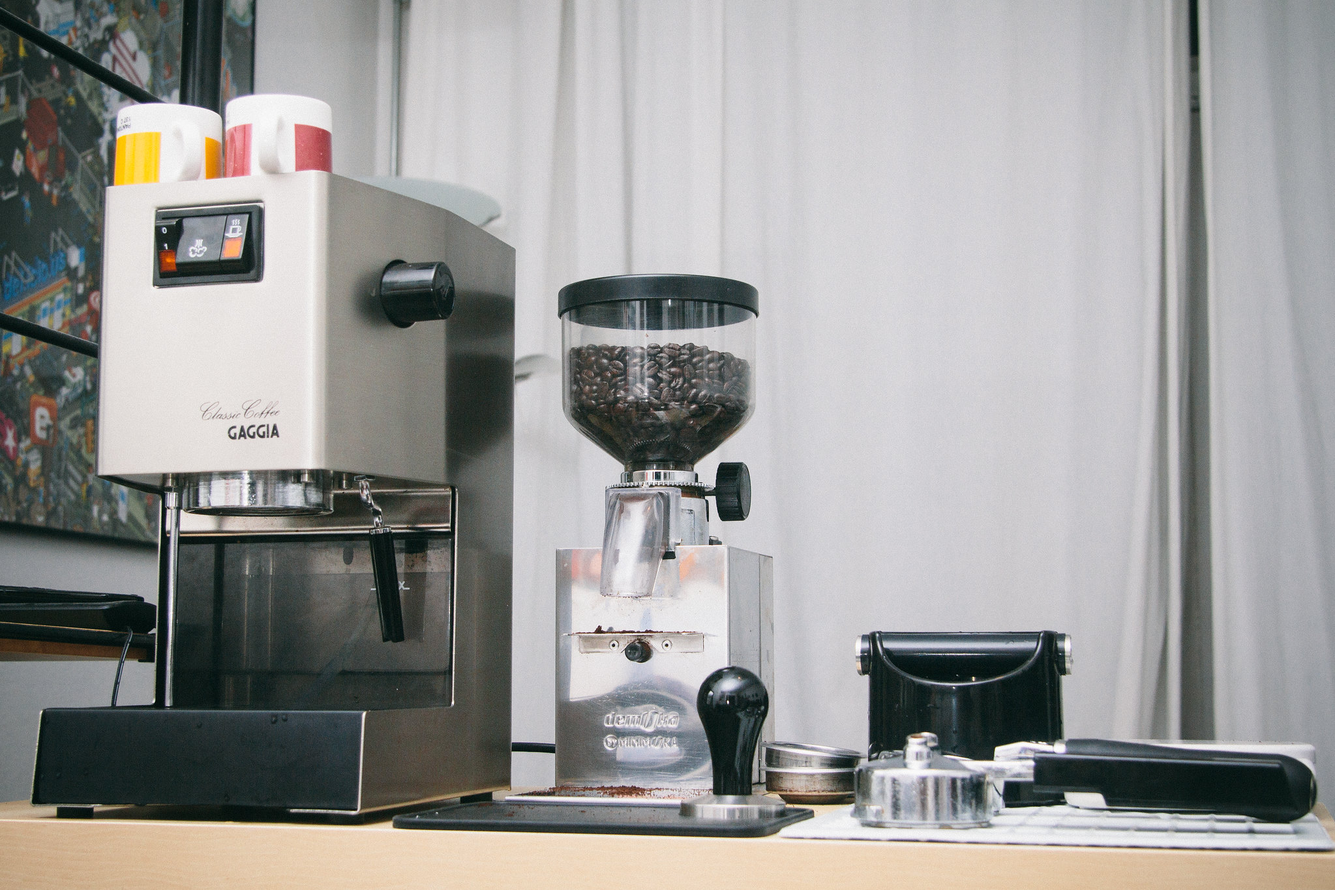
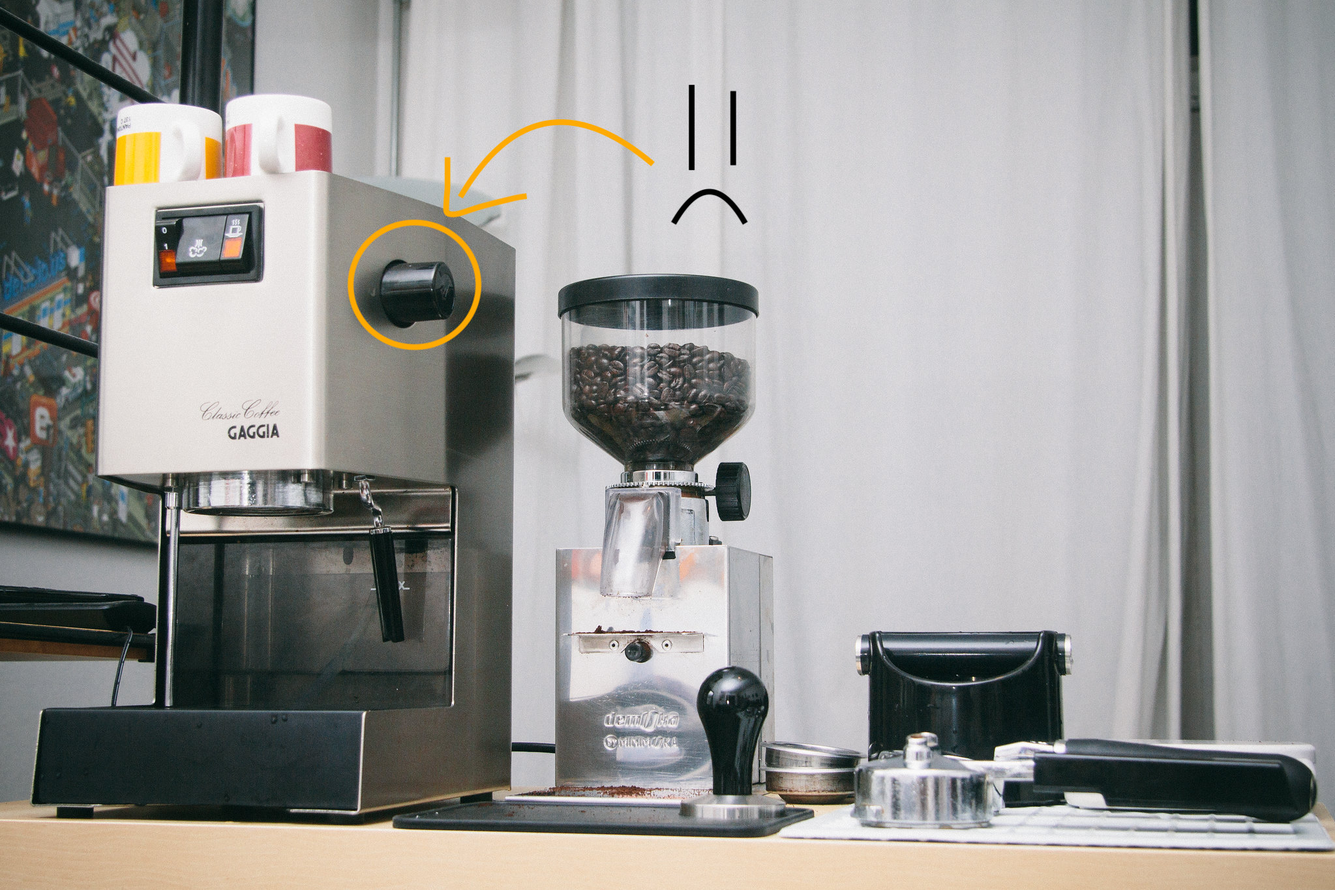
update first post

diff --git a/public/post/gaggia-steam-mod/index.html b/public/post/gaggia-steam-mod/index.html
@@ -9,7 +9,7 @@
   <meta name="referrer" content="no-referrer">
   
 
-  <link rel="icon" type="image/png" href="https://allaway.netlify.app/favicon.png">
+  <link rel="icon" type="image/png" href="../../favicon.png">
 
   <title>
     
@@ -17,26 +17,26 @@
      Mod your Gaggia Classic&#39;s Steam Knob 
     
   </title>
-  <link rel="canonical" href="https://allaway.netlify.app/post/gaggia-steam-mod/">
+  <link rel="canonical" href="../../post/gaggia-steam-mod/">
 
-  <link rel="stylesheet" href="https://allaway.netlify.app/css/fonts.css" />
-  <link rel="stylesheet" href="https://allaway.netlify.app/css/style.css" />
+  <link rel="stylesheet" href="../../css/fonts.css" />
+  <link rel="stylesheet" href="../../css/style.css" />
 
   
 </head>
 
 <body>
 <section id=nav>
-  <h1><a href="https://allaway.netlify.app/">robert&#39;s blog</a></h1>
+  <h1><a href="../../">robert&#39;s blog</a></h1>
   <ul>
     
     <li><a href="https://allaway.netlify.app/">Home</a></li>
     
-    <li><a href="https://github.com/allaway">GitHub</a></li>
+    <li><a href="https://github.com/allaway/">GitHub</a></li>
     
-    <li><a href="https://twitter.com/allawayr">Twitter</a></li>
+    <li><a href="https://twitter.com/allawayr/">Twitter</a></li>
     
-    <li><a href="https://allaway.netlify.app/index.xml">RSS</a></li>
+    <li><a href="../../index.xml">RSS</a></li>
     
   </ul>
 </section>
@@ -46,13 +46,31 @@
   <h1> Mod your Gaggia Classic&#39;s Steam Knob </h1>
 
   <div id=sub-header>
-    Robert Allaway · 2020/08/07 · 1 minute read
+    Robert Allaway · 2020/08/07 · 2 minute read
   </div>
 
   <div class="entry-content">
-    <p>An oft-mentioned shortcoming of the Gaggia Classic is the crappy steam knob. It&rsquo;s <a href="https://coffeeforums.co.uk/topic/9360-gaggia-classic-steam-knob/">not ergonomic</a>, <a href="https://www.reddit.com/r/espresso/comments/b7rozs/steam_knob_steam_lever_mods_gaggia_classic/">can break</a>, and is just not that good looking:</p>
+    <p>An oft-mentioned shortcoming of the Gaggia Classic is the crappy steam knob. It&rsquo;s <a href="https://coffeeforums.co.uk/topic/9360-gaggia-classic-steam-knob/">not ergonomic</a>, <a href="https://www.reddit.com/r/espresso/comments/b7rozs/steam_knob_steam_lever_mods_gaggia_classic/">can break</a>, and is just not that good looking (modified from image by Guy Sie](<a href="https://www.flickr.com/photos/guysie/14620900604)):">https://www.flickr.com/photos/guysie/14620900604)):</a></p>
+<p><!-- raw HTML omitted -->&rdquo; width=&quot;100%&quot;/&gt;</p>
+<p>I was working on my Gaggia last week and cracked the knob trying to remove it. Instead of paying 20 bucks for a equally-crappy replacement, I decided I wanted to try and build a replacement. There are a few mods floating around out there, but they either don&rsquo;t appeal to my aesthetics, or there are no instructions on replicating what they&rsquo;ve done.</p>
+<p>After looking at Gaggia parts diagrams, making some (somewhat) careful measurements, and spending more time browsing McMaster-Carr and many other similar parts sites than I care to admit, I came up with a solution that I thought would work. Specifically, I wanted to figure out something that would meet the following requirements:</p>
+<ul>
+<li><em>most importantly</em>: fits snugly on the 4.6x6mm D-shaft that turns the steam valve</li>
+<li>looks better than the stock knob</li>
+<li>is grippier than the stock knob</li>
+<li>is larger than the stock knob</li>
+<li>has enough clearance from the chassis of the Gaggia so that it isn&rsquo;t annoying to turn</li>
+<li>is wide enough to fill most of the hole in the side of the chassis</li>
+<li>at least semi-heat insulated; the brass steam valve gets hot!</li>
+</ul>
+<p>As it turns out, the robotics hobby world has some 6mm D-shafts on motors, and they have lots of parts that follow consistent standards (and cross-standard adaptors), so I came up with a few different possibilities for prototyping a new knob. After settling on one, I crossed my fingers, and placed an order. Two days later, I received the parts and spent a few minutes putting them together. Thankfully, the final product turned out as way better than I could have hoped for a prototype:</p>
 <!-- raw HTML omitted -->
+<p>Want to build one yourself? Read on:</p>
 <h2 id="tools-and-parts-list">Tools and Parts List:</h2>
+<p>I ended up buying all of the parts from ServoCity. I have no affiliation with them - I didn&rsquo;t even know they existed a week ago - but they seemed to be a reliable place to order from and they had everything I needed:</p>
+<ul>
+<li></li>
+</ul>
 <!-- raw HTML omitted -->
 
   </div>

diff --git a/public/post/test/index.html b/public/post/test/index.html
@@ -1,0 +1,110 @@
+<!DOCTYPE html>
+<html lang="en">
+<head>
+  <meta charset="utf-8">
+  <meta http-equiv="X-UA-Compatible" content="chrome=1">
+  <meta name="HandheldFriendly" content="True">
+  <meta name="MobileOptimized" content="320">
+  <meta name="viewport" content="width=device-width, initial-scale=1.0">
+  <meta name="referrer" content="no-referrer">
+  
+
+  <link rel="icon" type="image/png" href="../../favicon.png">
+
+  <title>
+    
+    
+     test 
+    
+  </title>
+  <link rel="canonical" href="../../post/test/">
+
+  <link rel="stylesheet" href="../../css/fonts.css" />
+  <link rel="stylesheet" href="../../css/style.css" />
+
+  
+</head>
+
+<body>
+<section id=nav>
+  <h1><a href="../../">robert&#39;s blog</a></h1>
+  <ul>
+    
+    <li><a href="https://allaway.netlify.app/">Home</a></li>
+    
+    <li><a href="https://github.com/allaway/">GitHub</a></li>
+    
+    <li><a href="https://twitter.com/allawayr/">Twitter</a></li>
+    
+    <li><a href="../../index.xml">RSS</a></li>
+    
+  </ul>
+</section>
+
+
+<section id=content>
+  <h1> test </h1>
+
+  <div id=sub-header>
+    Robert Allaway · 2020/08/07 · 1 minute read
+  </div>
+
+  <div class="entry-content">
+    
+
+
+<p>An oft-mentioned shortcoming of the Gaggia Classic is the crappy steam knob. It’s <a href="https://coffeeforums.co.uk/topic/9360-gaggia-classic-steam-knob/">not ergonomic</a>, <a href="https://www.reddit.com/r/espresso/comments/b7rozs/steam_knob_steam_lever_mods_gaggia_classic/">can break</a>, and is just not that good looking:</p>
+<p><img src="../../post/2020-08-07-gaggia-steam-mod_files/14620900604_d70bef1ec8_k.jpg" alt="Gaggia classic and accessories. " width="100%"/></p>
+<div id="tools-and-parts-list" class="section level2">
+<h2>Tools and Parts List:</h2>
+<p><img src="../../post/2020-08-07-gaggia-steam-mod_files/20200807_121534.jpg" alt="Parts and tools required for this mod. " width="600px"/></p>
+</div>
+
+  </div>
+
+  <div id=links>
+    
+    
+      <a class="basic-alignment left" href="../../post/gaggia-steam-mod/">Mod your Gaggia Classic&#39;s Steam Knob &raquo;</a>
+    
+  </div>
+</section>
+
+<section id="comments">
+<div id="disqus_thread"></div>
+<script type="text/javascript">
+
+(function() {
+      
+      
+      if (window.location.hostname == "localhost")
+                return;
+
+      var dsq = document.createElement('script'); dsq.type = 'text/javascript'; dsq.async = true;
+      var disqus_shortname = '';
+      dsq.src = '//' + disqus_shortname + '.disqus.com/embed.js';
+      (document.getElementsByTagName('head')[0] || document.getElementsByTagName('body')[0]).appendChild(dsq);
+})();
+</script>
+<noscript>Please enable JavaScript to view the <a href="https://disqus.com/?ref_noscript">comments powered by Disqus.</a></noscript>
+</section>
+
+
+  
+<script type="application/javascript">
+var doNotTrack = false;
+if (!doNotTrack) {
+	window.ga=window.ga||function(){(ga.q=ga.q||[]).push(arguments)};ga.l=+new Date;
+	ga('create', 'UA-174899905-1', 'auto');
+	
+	ga('send', 'pageview');
+}
+</script>
+<script async src='https://www.google-analytics.com/analytics.js'></script>
+
+  
+
+
+</body>
+</html>
+

diff --git a/public/index.html b/public/index.html
@@ -10,7 +10,7 @@
   <meta name="referrer" content="no-referrer">
   
 
-  <link rel="icon" type="image/png" href="https://allaway.netlify.app/favicon.png">
+  <link rel="icon" type="image/png" href="./favicon.png">
 
   <title>
     
@@ -18,28 +18,28 @@
      robert&#39;s blog 
     
   </title>
-  <link rel="canonical" href="https://allaway.netlify.app/">
+  <link rel="canonical" href="./">
 
-  <link rel="stylesheet" href="https://allaway.netlify.app/css/fonts.css" />
-  <link rel="stylesheet" href="https://allaway.netlify.app/css/style.css" />
+  <link rel="stylesheet" href="./css/fonts.css" />
+  <link rel="stylesheet" href="./css/style.css" />
 
   
-  <link href="https://allaway.netlify.app/index.xml" rel="alternate" type="application/rss+xml" title="robert&#39;s blog" />
+  <link href="./index.xml" rel="alternate" type="application/rss+xml" title="robert&#39;s blog" />
   
 </head>
 
 <body>
 <section id=nav>
-  <h1><a href="https://allaway.netlify.app/">robert&#39;s blog</a></h1>
+  <h1><a href="./">robert&#39;s blog</a></h1>
   <ul>
     
     <li><a href="https://allaway.netlify.app/">Home</a></li>
     
-    <li><a href="https://github.com/allaway">GitHub</a></li>
+    <li><a href="https://github.com/allaway/">GitHub</a></li>
     
-    <li><a href="https://twitter.com/allawayr">Twitter</a></li>
+    <li><a href="https://twitter.com/allawayr/">Twitter</a></li>
     
-    <li><a href="https://allaway.netlify.app/index.xml">RSS</a></li>
+    <li><a href="./index.xml">RSS</a></li>
     
   </ul>
 </section>
@@ -49,7 +49,7 @@
   <ul class=posts_listing>
     
       <li>
-        <h2><a href="https://allaway.netlify.app/post/">Posts</a></h2>
+        <h2><a href="./post/">Posts</a></h2>
         <div id=date>
           <time>2020/08/07</time>
         </div>

diff --git a/public/404.html b/public/404.html
@@ -9,7 +9,7 @@
   <meta name="referrer" content="no-referrer">
   
 
-  <link rel="icon" type="image/png" href="https://allaway.netlify.app/favicon.png">
+  <link rel="icon" type="image/png" href="./favicon.png">
 
   <title>
     
@@ -17,32 +17,32 @@
      404 Page not found 
     
   </title>
-  <link rel="canonical" href="https://allaway.netlify.app/404.html">
+  <link rel="canonical" href="./404.html">
 
-  <link rel="stylesheet" href="https://allaway.netlify.app/css/fonts.css" />
-  <link rel="stylesheet" href="https://allaway.netlify.app/css/style.css" />
+  <link rel="stylesheet" href="./css/fonts.css" />
+  <link rel="stylesheet" href="./css/style.css" />
 
   
 </head>
 
 <body>
 <section id=nav>
-  <h1><a href="https://allaway.netlify.app/">robert&#39;s blog</a></h1>
+  <h1><a href="./">robert&#39;s blog</a></h1>
   <ul>
     
     <li><a href="https://allaway.netlify.app/">Home</a></li>
     
-    <li><a href="https://github.com/allaway">GitHub</a></li>
+    <li><a href="https://github.com/allaway/">GitHub</a></li>
     
-    <li><a href="https://twitter.com/allawayr">Twitter</a></li>
+    <li><a href="https://twitter.com/allawayr/">Twitter</a></li>
     
-    <li><a href="https://allaway.netlify.app/index.xml">RSS</a></li>
+    <li><a href="./index.xml">RSS</a></li>
     
   </ul>
 </section>
 
   <section id="not-found">
-    <a href="https://allaway.netlify.app/">404</a>
+    <a href="./">404</a>
   </section>
   
 <script type="application/javascript">

diff --git a/content/post/2020-08-07-gaggia-steam-mod.md b/content/post/2020-08-07-gaggia-steam-mod.md
@@ -3,6 +3,7 @@ title: Mod your Gaggia Classic's Steam Knob
 author: Robert Allaway
 date: '2020-08-07'
 slug: gaggia-steam-mod
+draft: TRUE
 categories:
   - coffee
 tags:
@@ -11,10 +12,80 @@ tags:
   - mods
 ---
 
-An oft-mentioned shortcoming of the Gaggia Classic is the crappy steam knob. It's [not ergonomic](https://coffeeforums.co.uk/topic/9360-gaggia-classic-steam-knob/), [can break](https://www.reddit.com/r/espresso/comments/b7rozs/steam_knob_steam_lever_mods_gaggia_classic/), and is just not that good looking:
+An oft-mentioned shortcoming of the Gaggia Classic is the crappy steam knob. It's [not ergonomic](https://coffeeforums.co.uk/topic/9360-gaggia-classic-steam-knob/), [can break](https://www.reddit.com/r/espresso/comments/b7rozs/steam_knob_steam_lever_mods_gaggia_classic/), and is just not that good looking (modified from image by Guy Sie](https://www.flickr.com/photos/guysie/14620900604)):
 
-<img src="/post/2020-08-07-gaggia-steam-mod_files/14620900604_d70bef1ec8_k.jpg" alt="Gaggia classic and accessories. " width="400px"/>
+<img src="/post/2020-08-07-gaggia-steam-mod_files/14620900604_d70bef1ec8_k.jpg" alt="Gaggia classic and accessories." width="90%"/>" width="100%"/>
+
+I was working on my Gaggia last week and cracked the knob trying to remove it. Instead of paying 20 bucks for a equally-crappy replacement, I decided I wanted to try and build a replacement. There are a few mods floating around out there, but they either don't appeal to my aesthetics, or there are no instructions on replicating what they've done. 
+
+After looking at Gaggia parts diagrams, making some (somewhat) careful measurements, and spending more time browsing McMaster-Carr and many other similar parts sites than I care to admit, I came up with a solution that I thought would work. Specifically, I wanted to figure out something that would meet the following requirements: 
+
++ *most importantly*: fits snugly on the 4.6x6mm D-shaft that turns the steam valve
++ looks better than the stock knob
++ is grippier than the stock knob
++ is larger than the stock knob
++ has enough clearance from the chassis of the Gaggia so that it isn't annoying to turn
++ is wide enough to fill most of the hole in the side of the chassis
++ at least semi-heat insulated; the brass steam valve gets hot!
+
+As it turns out, the robotics hobby world has some 6mm D-shafts on motors, and they have lots of parts that follow consistent standards (and cross-standard adaptors), so I came up with a few different possibilities for prototyping a new knob. After settling on one, I crossed my fingers, and placed an order. Two days later, I received the parts and spent a few minutes putting them together. Thankfully, the final product turned out as way better than I could have hoped for a prototype:
+
+<img src="/post/2020-08-07-gaggia-steam-mod_files/20200807_164447.jpg" alt="Gaggia steam knob mod. " width="90%"/>
+
+<img src="/post/2020-08-07-gaggia-steam-mod_files/steam.gif" alt="steam knob gif" width="60%"/>
+
+Want to build one yourself? Read on: 
 
 ## Tools and Parts List:
 
-<img src="/post/2020-08-07-gaggia-steam-mod_files/20200807_121534.jpg" alt="Parts and tools required for this mod. " width="400px"/>
+<img src="/post/2020-08-07-gaggia-steam-mod_files/20200807_121534.jpg" alt="Parts and tools required for this mod. " width="90%"/>
+
+I ended up buying all of the parts from ServoCity. I have no affiliation with them - I didn't even know they existed a week ago - but they seemed to be a reliable place to order from and they had everything I needed - most importantly, hardware designed to join a 6mm D-shaft: 
+
++ [6mm Bore Set Screw D-Hub (Tapped), 0.770" Pattern](https://www.servocity.com/6mm-bore-set-screw-d-hub-tapped-0-770-pattern/)
++ [0.750" Hub Spacer](https://www.servocity.com/0-750-hub-spacer/)
++ [6-32 x 1.125" (1-1/8) Zinc-Plated Socket Head Machine Screw](https://www.servocity.com/6-32-x-1-125-1-1-8-zinc-plated-socket-head-machine-screw/)
++ [2.00 OD 0.500" ID Smooth Hub Pulley](https://www.servocity.com/2-00-od-0-500-id-smooth-hub-pulley/)
++ [2.00" x 1/4" O-Ring Belt](https://www.servocity.com/2-00-x-1-4-o-ring-belts/)
+
+You'll also need: 
+
++ screwdriver for interchangeable bits
++ a #2 Phillips head bit (not pictured above)
++ a 7/64" hex bit
++ a 3/32" hex bit
++ an extender if you are using a stubby screwdriver like mine - makes accessing the set screw a bit easier
++ optional, but could be helpful if you need to reposition the steam valve: a pair of pliers with a smooth surface to avoid damaging the brass steam valve surface. I like my Knipex 86 03 180 for these sorts of delicate tasks, but any old pliers should get the job done
+
+## Instructions 
+
+The assembly is pretty self explanatory, but here's a basic guide. As easy as it is to make this change, this mod might void any warranty you have, and you could inadvertently damage your Gaggia during installation, so proceed at your own risk: 
+
++ buy the parts
++ *unplug the gaggia from the wall outlet and make sure it has cooled to room temperature*
++ put the o-ring on the pulley
++ insert the set screw into the small hole on the side hub, screw in enough to secure it but not enough to block the D-bore hole.
++ assemble the parts as pictured: hub, spacer, pulley with o-ring. Make sure the hub screw holes, the 4 _unthreaded_ hub spacer holes, and 4 of the center pulley holes line up:
+<img src="/post/2020-08-07-gaggia-steam-mod_files/20200807_121647.jpg" alt="basic order of parts" width="90%"/>
++ push the screws through the 4 center holes that line up with the unthreaded holes on the hub spacer and threaded holes on the hub, and thread them into the hub. Tighten down with the 7/64" bit:
+<img src="/post/2020-08-07-gaggia-steam-mod_files/20200807_121938(1).jpg" alt="" width="90%"/>
++ unscrew the two screws in the back of the gaggia lid, remove the lid, and remove the old steam knob. The old steam knob should just pull off, but a flathead screwdriver can help remove it. Steps 2 and 3 of this [IFixit](https://www.ifixit.com/Guide/Gaggia+Classic+Steam+Valve+replacement/67366) tutorial describe how to remove the lid and steam knob with some nice pictures if you need a visual.
++ inspect the brass steam valve shaft. Using the old steam knob partially slid onto the valve shaft or a pair of pliers, gently turn the valve shaft until the flat side of the valve shaft is facing the back of the machine, about 45 degrees from vertical:
+<img src="/post/2020-08-07-gaggia-steam-mod_files/20200807_122121.jpg" alt="" width="90%"/>
++ line up the flat side of the D-bore hub on your newly assembled knob with the flat side of the brass valve shaft, and slide the knob onto the shaft. Inside the machine, slide the hub down the shaft until you reach the end of the flat section of the shaft.
+<img src="/post/2020-08-07-gaggia-steam-mod_files/20200807_122135(1).jpg" alt="" width="90%"/>
++Tighten down the set screw in the hub with the 3/32" bit until the knob is firmly attached to the brass shaft. Be careful not to overtighten here - I think the set screw can probably bite into and mar the brass valve. Gently pull on the knob to make sure it's firmly attached, and try turning the knob to see if you can move the valve. 
++Replace the lid and screw it back down.
+
+You're done! 
+
+## Closing thoughts and future improvements 
+
+I hope this was helpful! 
+
+With this basic hardware (hub and spacer), I think one could easily mod this to use other knobby sorts of things. I have a few things I'd like to improve in a new iteration: 
+
+- better thermal insulation. This is the one thing the Gaggia knob does better. I thought that the large, airy metal pieces would disperse heat rapidly enoguh for it to remain cool to the touch, but in reality the metal bits get quite warm especially on a machine that's been on for a while. The rubber o-ring gets warm too - not too hot to touch - but would prefer if it was cooler. 
+- grippier rubber. When the machine is hot, the o-ring can slide a little bit on the pulley. In practice, it's not really noticeable, but still would prefer it didn't happen at all. I am guessing this is a buna-n o-ring, and am planning on trying a silicone 2 inch I.D. o-ring to see if it works any better.
+- custom parts. I'd like it if the hub was a mm or two thinner, and if the d-bore was a little snugger of a fit on the valve shaft. I'd also like the pulley to have the exact number of holes (4) that I need, and no more. 
+- metric-headed bolts. No reason for this other than personal preference. 
